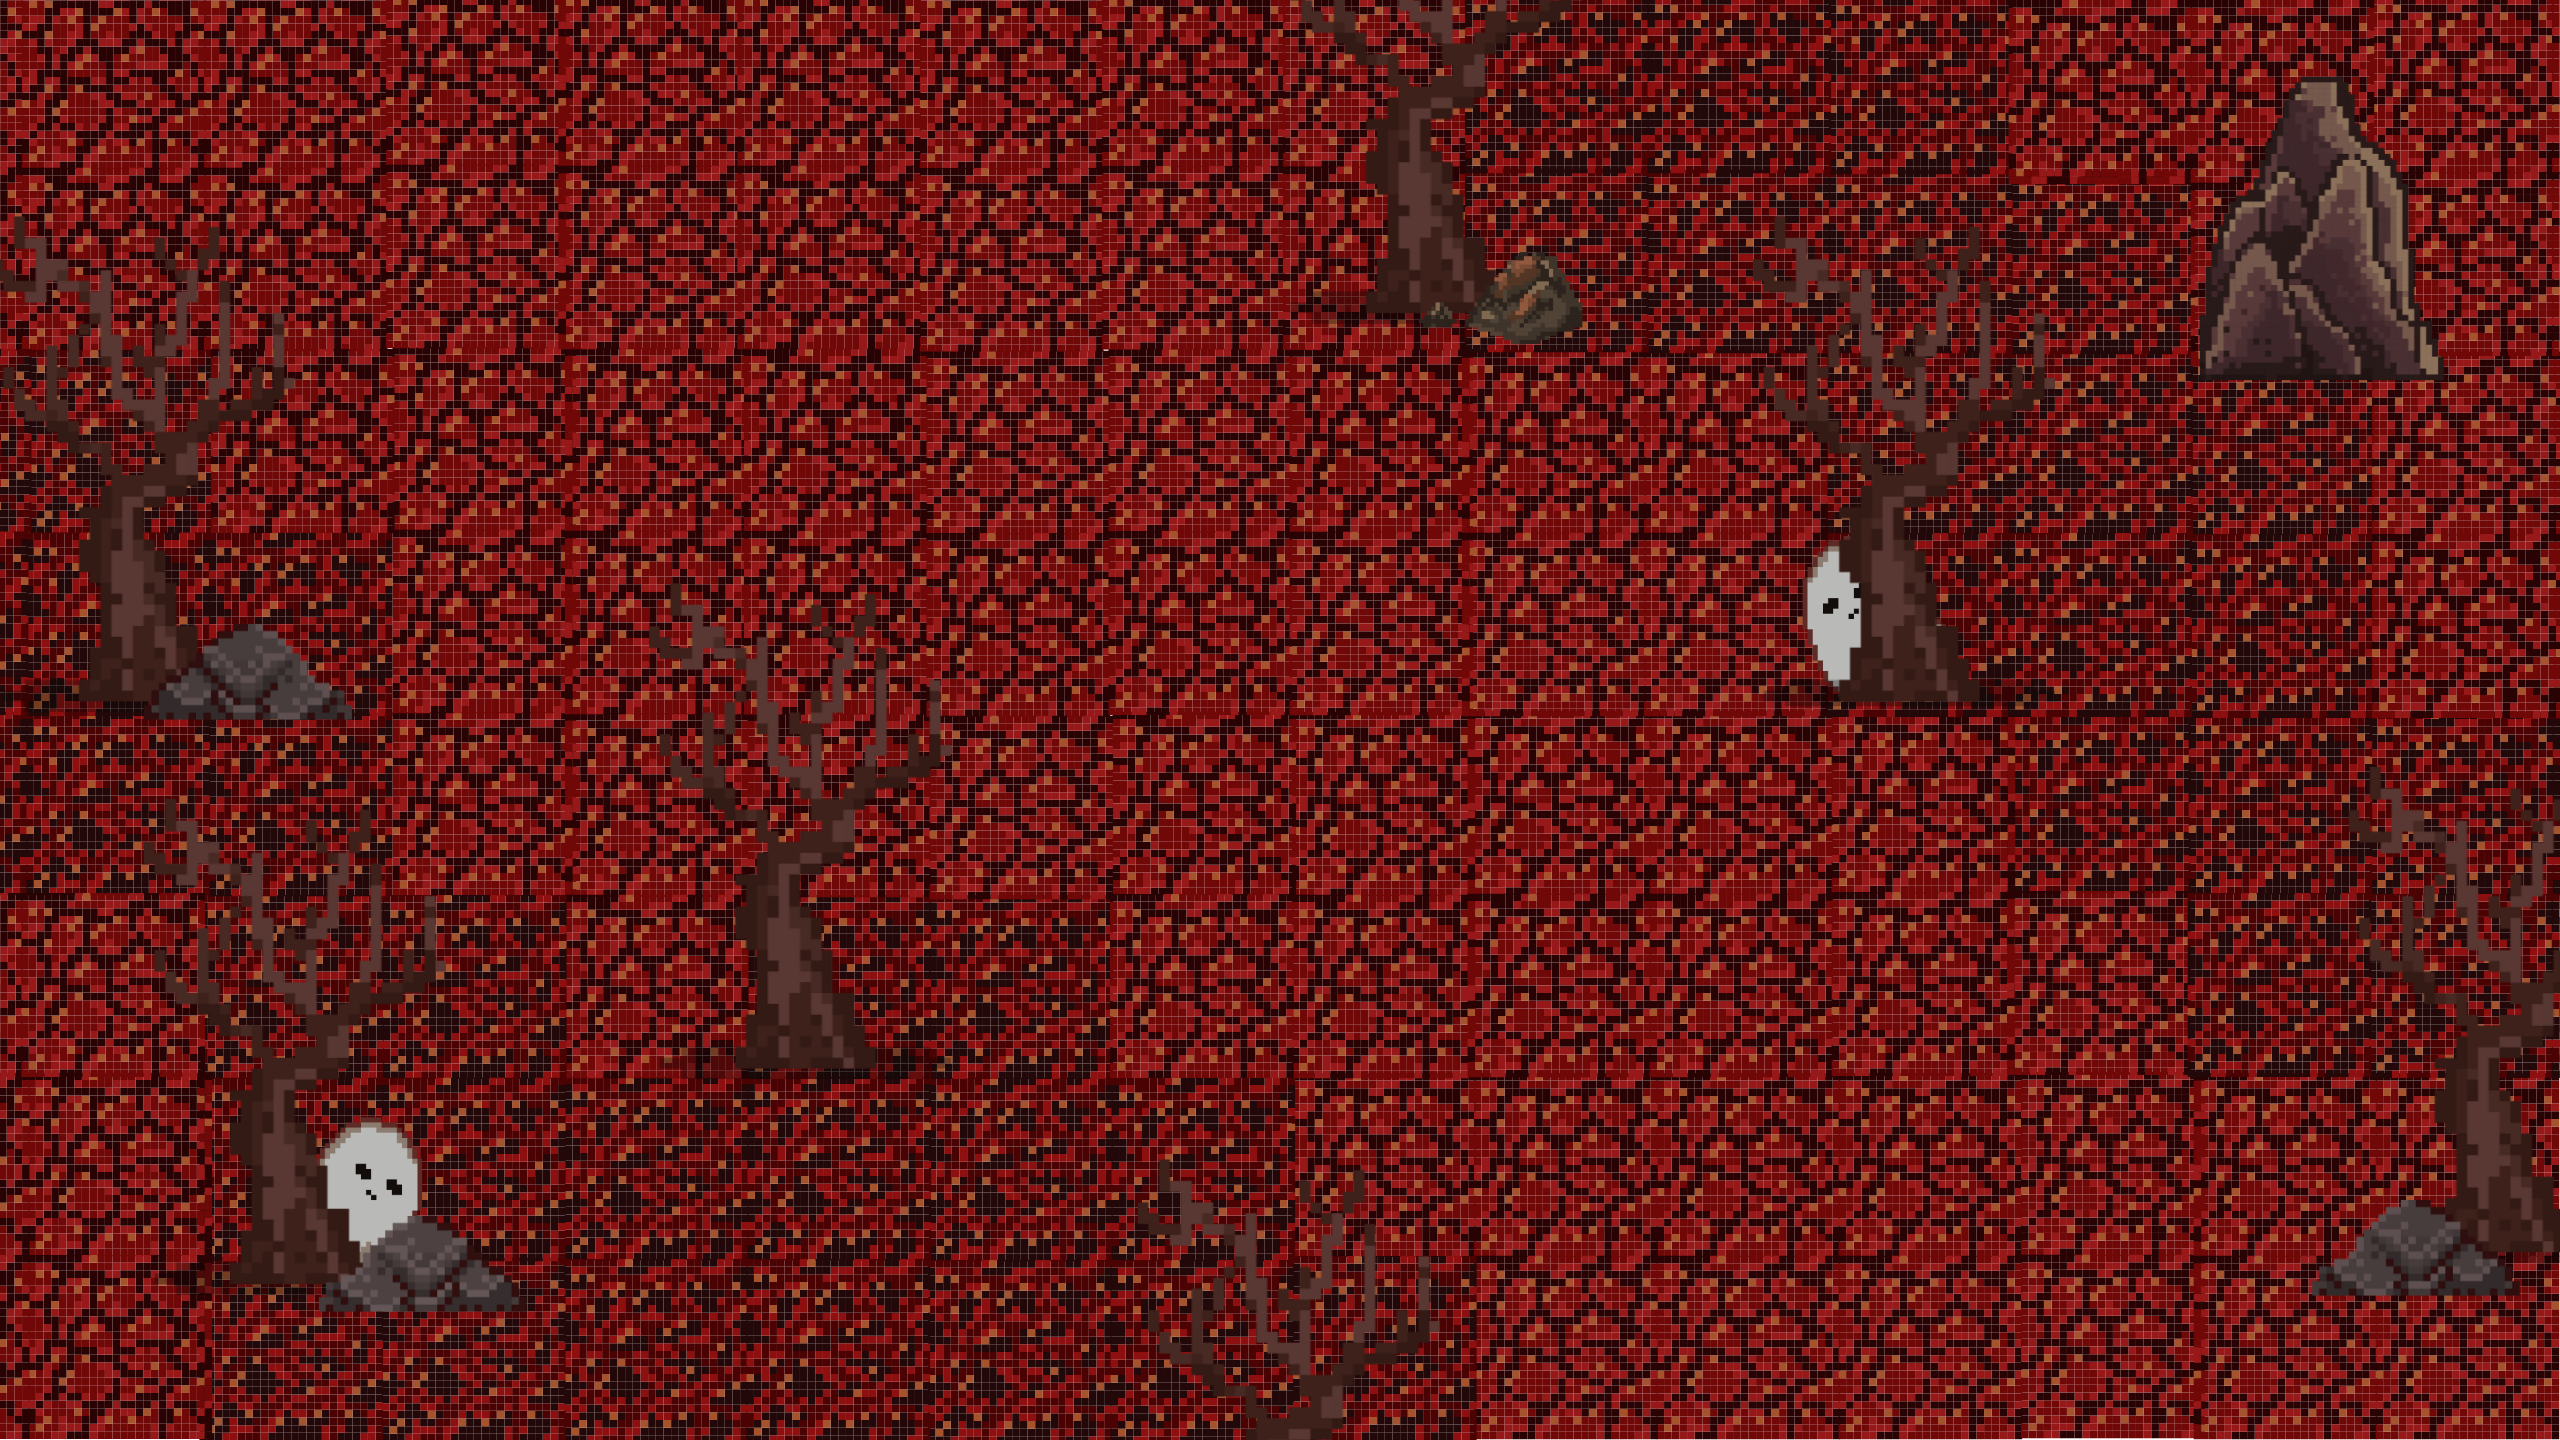
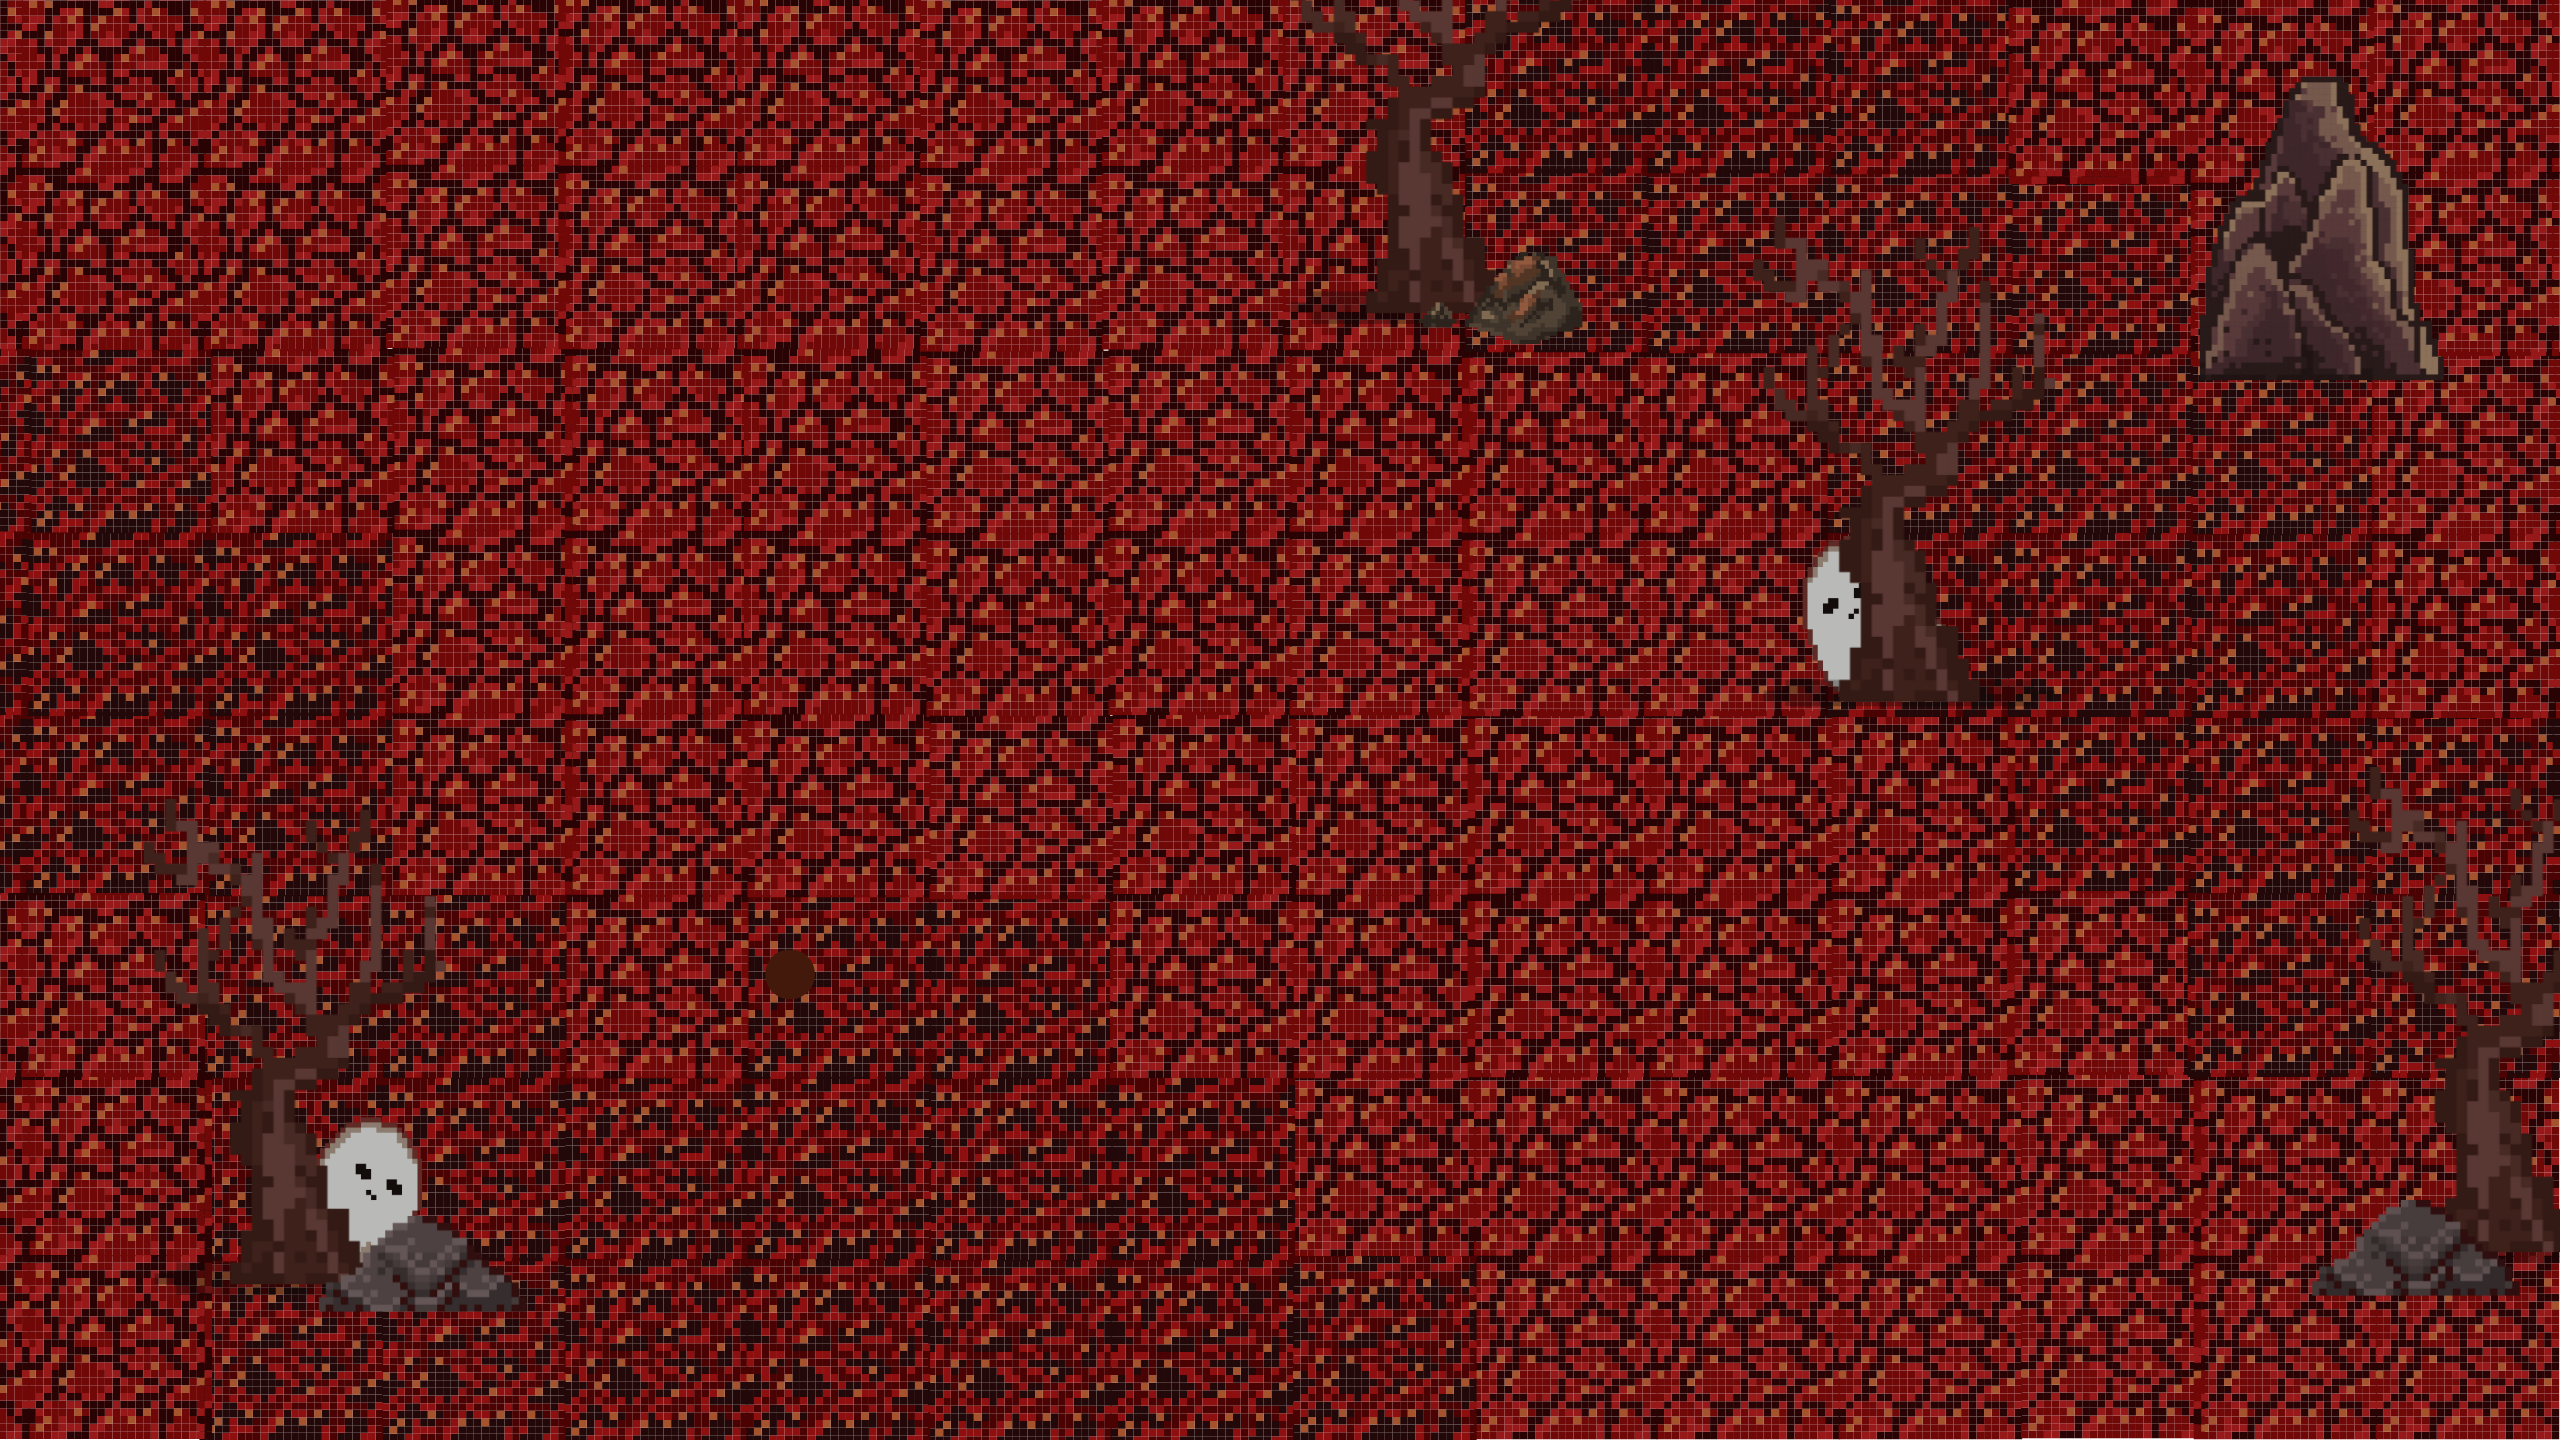
Fix map Planet 2 make tree above player layer

Changed region(s): [[0.25, 0.4062, 0.375, 0.75], [0.0, 0.1562, 0.1562, 0.5], [0.4375, 0.8125, 0.5625, 1.0]]

diff --git a/src/map/MapPlanet2.java b/src/map/MapPlanet2.java
@@ -7,8 +7,11 @@ import entities.Player.Player;
 import entities.Player.Rocket;
 import gui.MapPane;
 import javafx.scene.canvas.GraphicsContext;
+import javafx.scene.image.Image;
 
 public class MapPlanet2 extends GameMap{
+    private Image tree = new Image(ClassLoader.getSystemResource("img/mapComponent/tree.png").toString());
+    private Image tree_Rock= new Image(ClassLoader.getSystemResource("img/mapComponent/tree_rock.png").toString());
     private Boundary boundary2;
     public MapPlanet2(){
         this.boundary = new LinearBoundary(1,100);
@@ -29,5 +32,8 @@ public class MapPlanet2 extends GameMap{
         // TODO
         gc.drawImage(boss.getImage(),boss.getX(),boss.getY());
         gc.drawImage(rocket.getImage(),rocket.getX(),rocket.getY());
+        gc.drawImage(tree,325,287);
+        gc.drawImage(tree,569,560);
+        gc.drawImage(tree_Rock,0,108);
     }
 }
